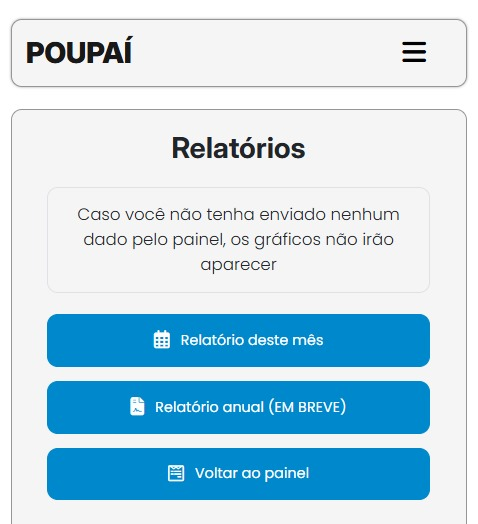
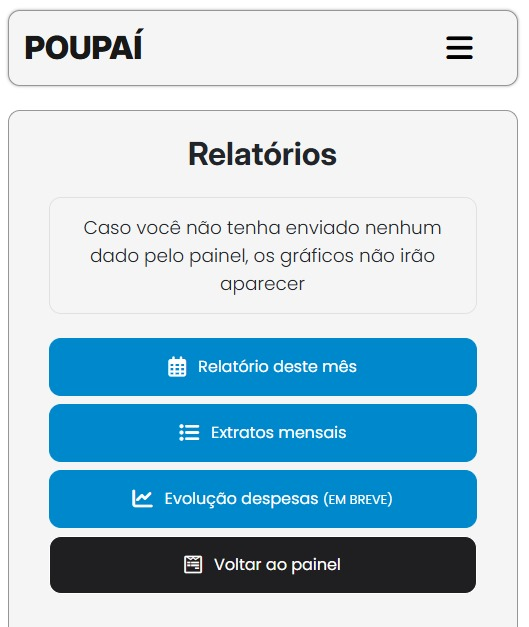
Corrigida lógica para salvar extratos e melhorada navegação para mobile

diff --git a/functions.php b/functions.php
@@ -711,77 +711,102 @@
     }
 
 //FUNCAO QUE SALVA EXTRATO MENSAL QUANDO VIRA O MÊS
-    function salvaExtrato($mysqli){
-        //pegando id usuário da sessão e a data atual
+    
+function salvaExtrato($mysqli) {
+        //pegando id do usuário pela sessão e pegando a data atual
         $id = $_SESSION['id'];
         $dataAtual = date('Y-m-d');
-
-        //sql verificando se já existe um extrato do mês passado
-        $sql_code = "SELECT COUNT(*) AS total FROM extratos WHERE id_usuario = $id AND MONTH(data_extrato) = MONTH(DATE_SUB('$dataAtual', INTERVAL 1 MONTH))";
-
-        //se existir um extrato do mês passado encerra a função, se não existir coleta os dados e salva na tabela
-        if($resultado = $mysqli->query($sql_code)){
+    
+        //sql para verificar se já existe extrato salvo do mês passado
+        $sql_code = "SELECT COUNT(*) AS total 
+                     FROM extratos 
+                     WHERE id_usuario = $id 
+                     AND MONTH(data_extrato) = MONTH(DATE_SUB('$dataAtual', INTERVAL 1 MONTH))";
+    
+        $resultado = $mysqli->query($sql_code);
+        if ($resultado) {
             $linhas = $resultado->fetch_assoc();
-        
-            //se não tiver extrato, pega dados e salva
-            if($linhas['total'] == 0){
-
+    
+            //se não existe extrato salvo do mês passado, vamos procurar os dados e salvar um
+            if ($linhas['total'] == 0) {
+                // sql para coletar dados do mês passado
                 $sql_code = "SELECT 
-                SUM(CASE WHEN valor < 0 THEN valor ELSE 0 END) AS despesa,
-                SUM(CASE WHEN valor > 0 THEN valor ELSE 0 END) AS receita,
-                SUM(CASE WHEN categoria = 'moradia' THEN valor else 0 END) AS totalMoradia,
-                SUM(CASE WHEN categoria = 'alimentacao' THEN valor else 0 END) AS totalAlimentacao,
-                SUM(CASE WHEN categoria = 'saude' THEN valor else 0 END) AS totalSaude,
-                SUM(CASE WHEN categoria = 'transporte' THEN valor else 0 END) AS totalTransporte,
-                SUM(CASE WHEN categoria = 'educacao' THEN valor else 0 END) AS totalEducacao,
-                SUM(CASE WHEN categoria = 'lazer' THEN valor else 0 END) AS totalLazer,
-                SUM(CASE WHEN categoria = 'compras' THEN valor else 0 END) AS totalCompras,
-                SUM(CASE WHEN categoria = 'impostos' THEN valor else 0 END) AS totalImpostos,
-                SUM(CASE WHEN categoria = 'dividas' THEN valor else 0 END) AS totalDividas,
-                SUM(CASE WHEN categoria = 'credito' THEN valor else 0 END) AS totalCredito,
-                SUM(CASE WHEN categoria = 'investimentosDESP' THEN valor else 0 END) AS totalInvestimentosDESP,
-                SUM(CASE WHEN categoria = 'salario' THEN valor else 0 END) AS totalSalario,
-                SUM(CASE WHEN categoria = 'extra' THEN valor else 0 END) AS totalExtra,
-                SUM(CASE WHEN categoria = 'investimentosREC' AND valor > 0 THEN valor else 0 END) AS totalInvestimentosREC,
-                SUM(CASE WHEN categoria = 'presentes' THEN valor else 0 END) AS totalPresentes,
-                SUM(CASE WHEN categoria = 'reembolsos' THEN valor else 0 END) AS totalReembolsos,
-                SUM(CASE WHEN categoria = 'cuidados-pessoais' THEN valor else 0 END) AS totalCuidados 
-                FROM movimentacoes WHERE id_usuario = $id AND MONTH(data_movimentacao) = MONTH(DATE_SUB('$dataAtual' , INTERVAL 1 MONTH))";
-        
-                if($resultado = $mysqli->query($sql_code)){
-        
-                    while($dados = $resultado->fetch_assoc()){
-                        
-                    //salva como variável php o nome dos retornos da consulta sql
-                    extract($dados);
-
-                     //inserindo dados no extrato
-                     $sql_code = "INSERT INTO extratos (
-                        id_usuario, despesa, receita, totalMoradia, totalAlimentacao, 
-                        totalSaude, totalTransporte, totalEducacao, totalLazer, totalCompras, 
-                        totalImpostos, totalDividas, totalCredito, totalInvestimentosDESP, 
-                        totalSalario, totalExtra, totalInvestimentosREC, totalPresentes, 
-                        totalReembolsos, totalCuidados, data_extrato
-                    ) VALUES (
-                        $id, $despesa, $receita, $totalMoradia, $totalAlimentacao, 
-                        $totalSaude, $totalTransporte, $totalEducacao, $totalLazer, $totalCompras, 
-                        $totalImpostos, $totalDividas, $totalCredito, $totalInvestimentosDESP, 
-                        $totalSalario, $totalExtra, $totalInvestimentosREC, $totalPresentes, 
-                        $totalReembolsos, $totalCuidados, LAST_DAY(DATE_SUB('$dataAtual', INTERVAL 1 MONTH))
-                    )";
-
-                    if($mysqli->query($sql_code)){
-
-                    } else {
-                        header("Location: erro-conexao-banco.php");
+                    SUM(CASE WHEN valor < 0 THEN valor ELSE 0 END) AS despesa,
+                    SUM(CASE WHEN valor > 0 THEN valor ELSE 0 END) AS receita,
+                    SUM(CASE WHEN categoria = 'moradia' THEN valor ELSE 0 END) AS totalMoradia,
+                    SUM(CASE WHEN categoria = 'alimentacao' THEN valor ELSE 0 END) AS totalAlimentacao,
+                    SUM(CASE WHEN categoria = 'saude' THEN valor ELSE 0 END) AS totalSaude,
+                    SUM(CASE WHEN categoria = 'transporte' THEN valor ELSE 0 END) AS totalTransporte,
+                    SUM(CASE WHEN categoria = 'educacao' THEN valor ELSE 0 END) AS totalEducacao,
+                    SUM(CASE WHEN categoria = 'lazer' THEN valor ELSE 0 END) AS totalLazer,
+                    SUM(CASE WHEN categoria = 'compras' THEN valor ELSE 0 END) AS totalCompras,
+                    SUM(CASE WHEN categoria = 'impostos' THEN valor ELSE 0 END) AS totalImpostos,
+                    SUM(CASE WHEN categoria = 'dividas' THEN valor ELSE 0 END) AS totalDividas,
+                    SUM(CASE WHEN categoria = 'credito' THEN valor ELSE 0 END) AS totalCredito,
+                    SUM(CASE WHEN categoria = 'investimentosDESP' THEN valor ELSE 0 END) AS totalInvestimentosDESP,
+                    SUM(CASE WHEN categoria = 'salario' THEN valor ELSE 0 END) AS totalSalario,
+                    SUM(CASE WHEN categoria = 'extra' THEN valor ELSE 0 END) AS totalExtra,
+                    SUM(CASE WHEN categoria = 'investimentosREC' AND valor > 0 THEN valor ELSE 0 END) AS totalInvestimentosREC,
+                    SUM(CASE WHEN categoria = 'presentes' THEN valor ELSE 0 END) AS totalPresentes,
+                    SUM(CASE WHEN categoria = 'reembolsos' THEN valor ELSE 0 END) AS totalReembolsos,
+                    SUM(CASE WHEN categoria = 'cuidados-pessoais' THEN valor ELSE 0 END) AS totalCuidados 
+                    FROM movimentacoes 
+                    WHERE id_usuario = $id 
+                    AND MONTH(data_movimentacao) = MONTH(DATE_SUB('$dataAtual', INTERVAL 1 MONTH)) 
+                    AND YEAR(data_movimentacao) = YEAR('$dataAtual')";
+    
+                $resultado = $mysqli->query($sql_code);
+                if ($resultado) {
+                    while ($dados = $resultado->fetch_assoc()) {
+                        //se não tiver valor, retorna 0
+                        $despesa = $dados['despesa'] ?? 0;
+                        $receita = $dados['receita'] ?? 0;
+                        $totalMoradia = $dados['totalMoradia'] ?? 0;
+                        $totalAlimentacao = $dados['totalAlimentacao'] ?? 0;
+                        $totalSaude = $dados['totalSaude'] ?? 0;
+                        $totalTransporte = $dados['totalTransporte'] ?? 0;
+                        $totalEducacao = $dados['totalEducacao'] ?? 0;
+                        $totalLazer = $dados['totalLazer'] ?? 0;
+                        $totalCompras = $dados['totalCompras'] ?? 0;
+                        $totalImpostos = $dados['totalImpostos'] ?? 0;
+                        $totalDividas = $dados['totalDividas'] ?? 0;
+                        $totalCredito = $dados['totalCredito'] ?? 0;
+                        $totalInvestimentosDESP = $dados['totalInvestimentosDESP'] ?? 0;
+                        $totalSalario = $dados['totalSalario'] ?? 0;
+                        $totalExtra = $dados['totalExtra'] ?? 0;
+                        $totalInvestimentosREC = $dados['totalInvestimentosREC'] ?? 0;
+                        $totalPresentes = $dados['totalPresentes'] ?? 0;
+                        $totalReembolsos = $dados['totalReembolsos'] ?? 0;
+                        $totalCuidados = $dados['totalCuidados'] ?? 0;
+    
+                        //inserindo dados na tabela extratos
+                        $sql_code = "INSERT INTO extratos (
+                            id_usuario, despesa, receita, totalMoradia, totalAlimentacao, 
+                            totalSaude, totalTransporte, totalEducacao, totalLazer, totalCompras, 
+                            totalImpostos, totalDividas, totalCredito, totalInvestimentosDESP, 
+                            totalSalario, totalExtra, totalInvestimentosREC, totalPresentes, 
+                            totalReembolsos, totalCuidados, data_extrato) 
+                            VALUES (
+                            $id, $despesa, $receita, $totalMoradia, $totalAlimentacao, 
+                            $totalSaude, $totalTransporte, $totalEducacao, $totalLazer, $totalCompras, 
+                            $totalImpostos, $totalDividas, $totalCredito, $totalInvestimentosDESP, 
+                            $totalSalario, $totalExtra, $totalInvestimentosREC, $totalPresentes, 
+                            $totalReembolsos, $totalCuidados, LAST_DAY(DATE_SUB('$dataAtual', INTERVAL 1 MONTH))
+                        )";
+    
+                        if (!$mysqli->query($sql_code)) {
+                            header("Location: erro-conexao-banco.php");
+                            exit;
+                        }
                     }
-
-                    }
-                    
                 } else {
                     header("Location: erro-conexao-banco.php");
+                    exit;
                 }
-            } 
+            }
+        } else {
+            header("Location: erro-conexao-banco.php");
+            exit;
         }
     }
 

diff --git a/relatorios.php b/relatorios.php
@@ -96,20 +96,24 @@ buscarDados($mysqli);
                                 Caso você não tenha enviado nenhum dado pelo painel, os gráficos não irão aparecer
                             </p>
                             <div class="row">
-                                    <div class="col-12 col-md-6 my-2">
+                                    <div class="col-12 col-md-6 mt-2">
                                         <a class="btn botao-primario poppins-regular p-3 w-100" href="#mensal"> <i class="fa-regular fa-lg fa-calendar-days mr-2" style="color: #ffffff;"></i> Relatório deste mês</a>
                                     </div>
 
-                                    <div class="col-12 col-md-6 d-none d-md-block mt-2 mb-5">
-                                        <a class="btn botao-primario poppins-regular p-3 w-100" href="relatorios.php"> <i class="fa-solid fa-lg fa-file-contract mr-2" style="color: #ffffff;"></i>  Relatório anual (EM BREVE)</a>
-                                    </div> 
+                                    <div class="col-12 col-md-6 mt-2">
+                                        <a class="btn botao-primario poppins-regular p-3 w-100" href="#extratoMensal"> <i class="fa-solid fa-list-ul fa-lg mr-2" style="color: #ffffff;"></i>  Extratos mensais</a>
+                                    </div>
 
-                                    <div class="col-12 d-md-none col-md-6 my-2">
-                                        <a class="btn botao-primario poppins-regular p-3 w-100" href="relatorios.php"> <i class="fa-solid fa-lg fa-file-contract mr-2" style="color: #ffffff;"></i>  Relatório anual (EM BREVE)</a>
+                                    <div class="col-12 col-md-12 d-none d-md-block mt-2 mb-5">
+                                        <a class="btn botao-primario poppins-regular p-3 w-100" href="relatorios.php"> <i class="fa-solid fa-chart-line fa-lg mr-2" style="color: #ffffff;"></i>  Evolução despesas </a>
                                     </div>  
+
+                                    <div class="col-12 col-md-12 d-md-none mt-2">
+                                        <a class="btn botao-primario poppins-regular p-3 w-100" href="relatorios.php"> <i class="fa-solid fa-chart-line fa-lg mr-2" style="color: #ffffff;"></i>  Evolução despesas <span class="poppins-light"><small>(EM BREVE)</small></span> </a>
+                                    </div>
                                     
                                     <div class="col-12 d-md-none mt-2 mb-5">
-                                        <a class="btn botao-primario poppins-regular p-3 w-100" href="painel.php"><i class="fa-brands fa-wpforms fa-lg mr-2" style="color: #ffffff;"></i> Voltar ao painel</a>
+                                        <a class="btn botao-terciario poppins-regular p-3 w-100" href="painel.php"><i class="fa-brands fa-wpforms fa-lg mr-2" style="color: #ffffff;"></i> Voltar ao painel</a>
                                     </div>  
                             </div>
                         </section>
@@ -172,7 +176,7 @@ buscarDados($mysqli);
                 </div>
 
                 <!--EXTRATOS-->
-                <div class="row d-flex background-menus justify-content-center borda-baixo">
+                <div class="row d-flex background-menus justify-content-center borda-baixo" id="extratoMensal">
                     <div class="col-12 text-center px-5">
                         <h2 class="inter-bold d-md-none mt-5">Extratos mensais</h2>
                         <h2 class="inter-bold d-none d-mb-block d-lg-block">Extratos mensais</h2>

diff --git a/registro.php b/registro.php
@@ -52,16 +52,8 @@ verificarSessaoLogin();
                 <div class="d-md-none col-11 col-md-6 col-lg-5 background-preto relatorio-eliza p-5" style="border-radius: 12px 12px 0px 0px">
                     <h4 class="texto-primario poppins-regular mb-3"><i class="bi bi-stars"></i>Eliza</h4>
                     <p class="poppins-regular eliza-crud-sm text-light my-3">
-                        Oi, tudo bem?
-                    </p>
-
-                    <p class="poppins-regular eliza-crud-sm text-light my-3">
                         Fico feliz quando vejo gente nova por aqui!
-                    </p>
-
-                    <p class="poppins-regular eliza-crud-sm text-light my-3">
-                        Se registra aí embaixo rapidinho e vamos organizar as suas finanças hoje mesmo!  
-                    </p>        
+                    </p>       
                 </div>
 
                 <!--REGISTRO-->

diff --git a/login.php b/login.php
@@ -55,14 +55,6 @@ login($mysqli);
                     <p class="poppins-regular eliza-crud-sm text-light my-3">
                         É tão bom te ver de novo!
                     </p>
-
-                    <p class="poppins-regular eliza-crud-sm text-light my-3">
-                        Você está trazendo boas notícias? 
-                    </p> 
-                    
-                    <p class="poppins-regular eliza-crud-sm text-light my-3">
-                        De qualquer forma, estou te esperando lá no painel! 
-                    </p> 
                 </div>
 
                 <!--LOGIN-->

diff --git a/README.md b/README.md
@@ -92,10 +92,6 @@
 </div>
 
 <div align="center">
-  <img src="assets/navegacao3.jpg" style="border-radius: 20px; max-width: 80%; height: auto;">
-</div>
-
-<div align="center">
   <img src="assets/navegacao1.jpg" style="border-radius: 20px; max-width: 80%; height: auto;">
 </div>
 
